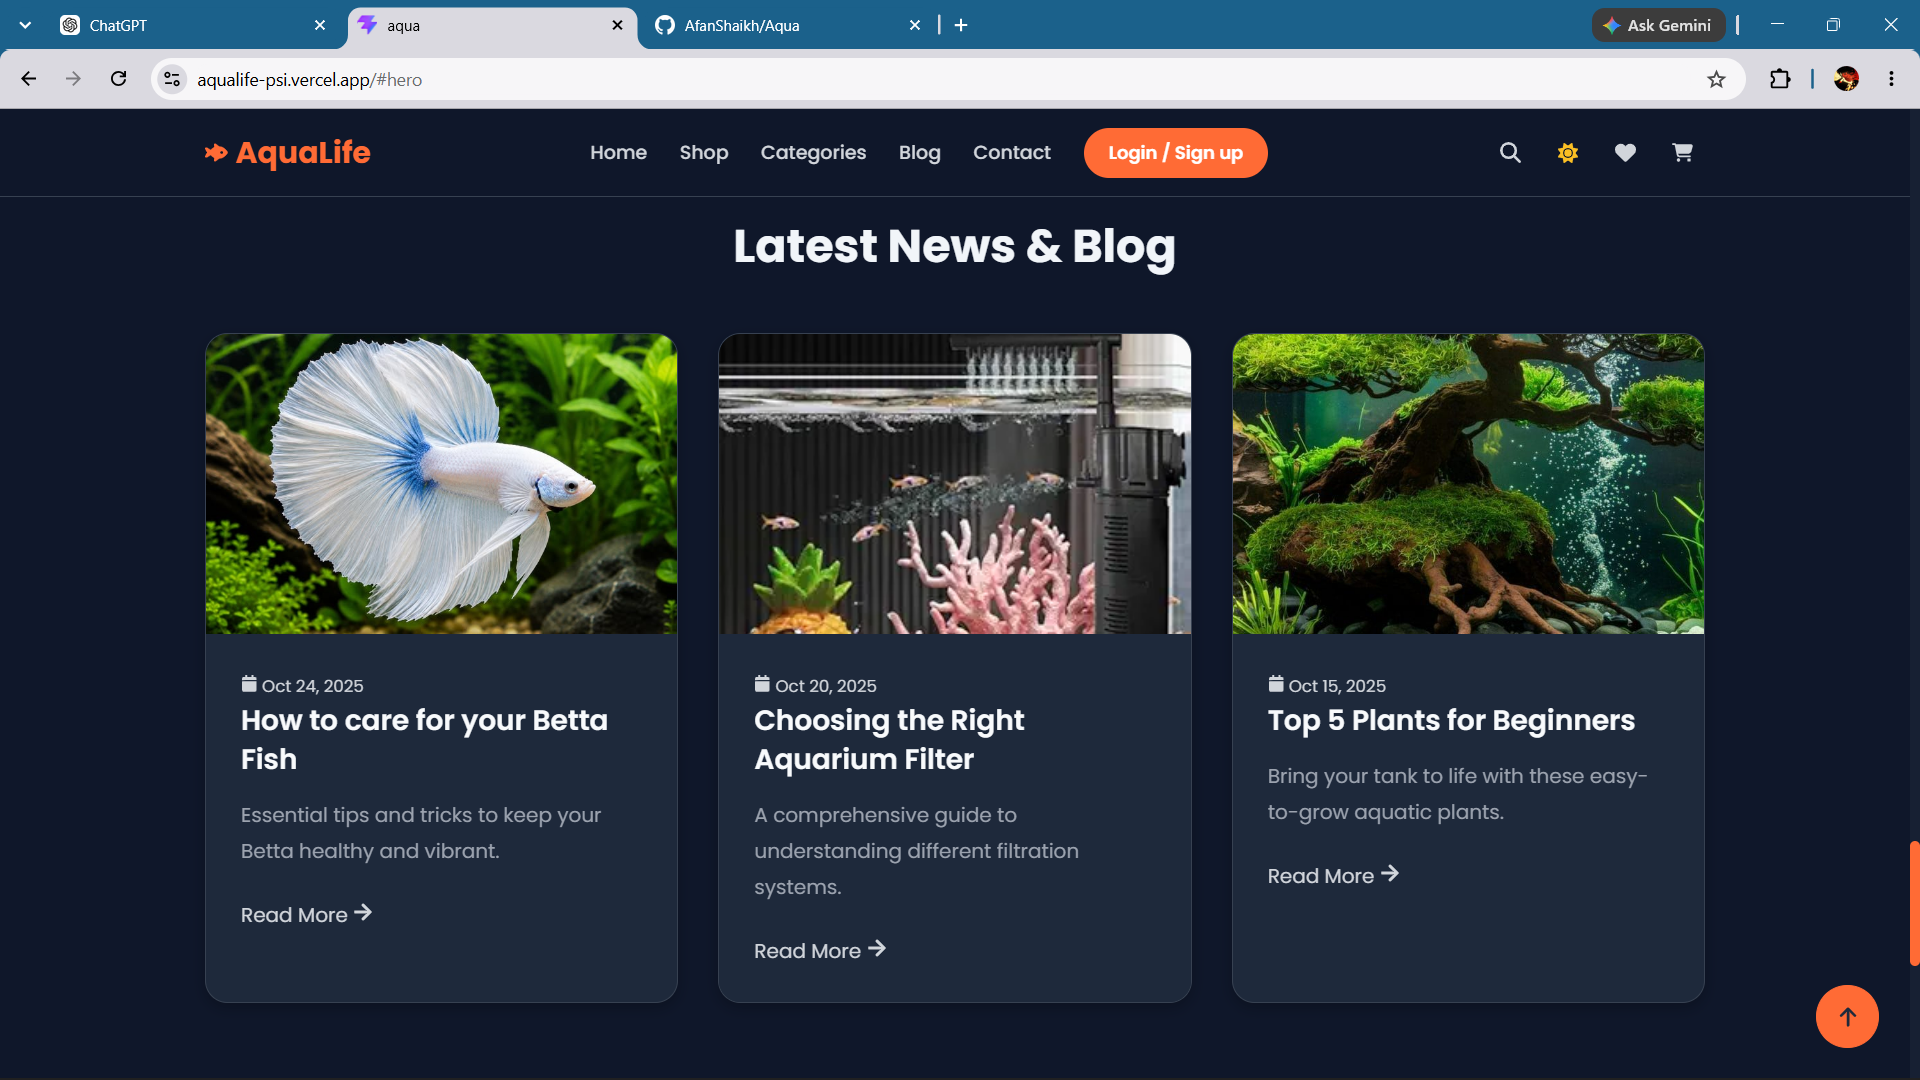
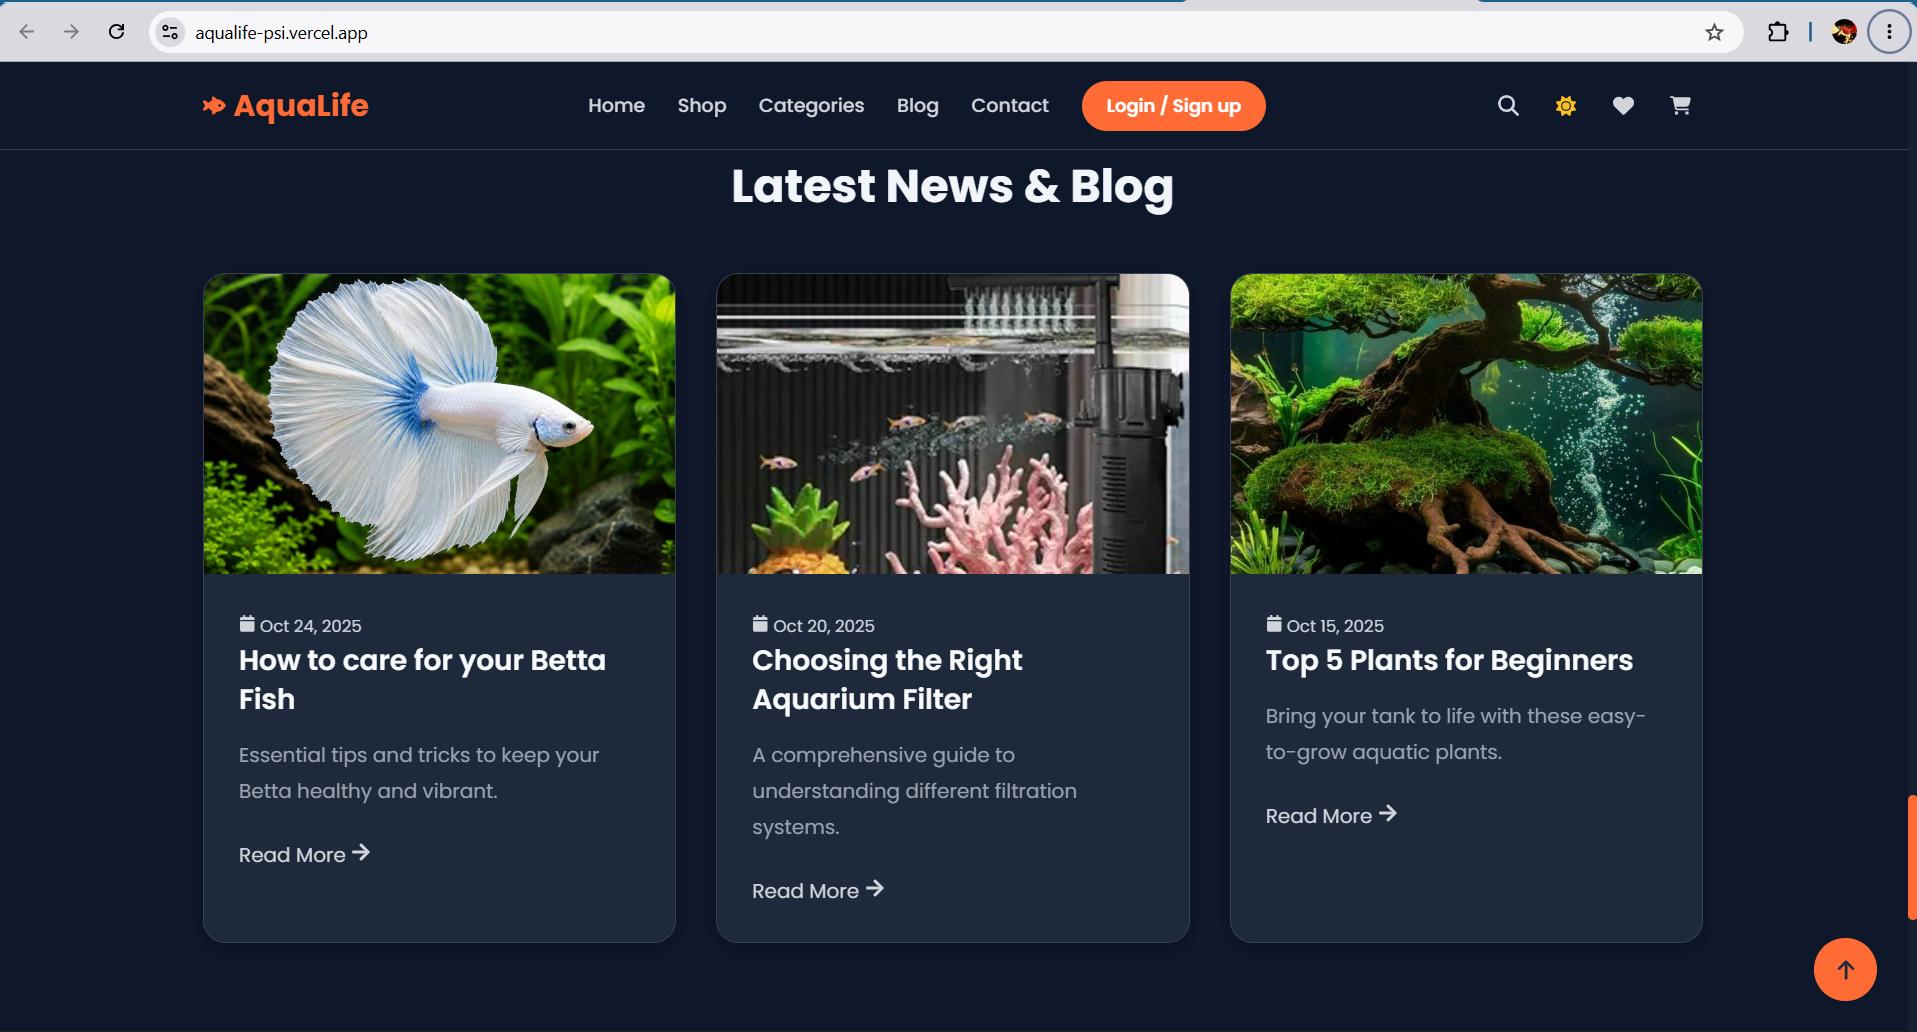
code

diff --git a/README.md b/README.md
@@ -213,19 +213,20 @@ The interface uses a dark aquarium-inspired visual system with:
 
 ### Categories
 
-![AquaLife Categories](Frontend/src/assets/screenshots/categories.png)
+![AquaLife Categories](Frontend/src/assets/screenshots/CT.png)
 
 ### Top Selling Products
 
-![Top Selling Products](Frontend/src/assets/screenshots/top-selling-products.png)
+![Top Selling Products](Frontend/src/assets/screenshots/product.png)
 
 ### Promotional Offer
 
-![Promotional Offer](Frontend/src/assets/screenshots/offer-section.png)
+![Promotional Offer](Frontend/src/assets/screenshots/offer.png)
 
 ### Project Gallery
 
-![Project Gallery](Frontend/src/assets/screenshots/project-gallery.png)
+![Project Gallery](Frontend/src/assets/screenshots/gallery.png),
+![Project Gallery](Frontend/src/assets/screenshots/gallery2.png)
 
 ### Blog
 
@@ -233,17 +234,19 @@ The interface uses a dark aquarium-inspired visual system with:
 
 ### Authentication
 
-![Create Account](Frontend/src/assets/screenshots/signup.png)
+![Create Account](Frontend/src/assets/screenshots/auth.png)
 
-![Sign In](Frontend/src/assets/screenshots/signin.png)
+![Sign In](Frontend/src/assets/screenshots/auth2.png)
 
 ### Wishlist
 
 ![Wishlist](Frontend/src/assets/screenshots/wishlist.png)
+![Wishlist](Frontend/src/assets/screenshots/wishlist2.png)
 
 ### Cart
 
-![Cart](Frontend/src/assets/screenshots/cart.png)
+![Cart](Frontend/src/assets/screenshots/checkout.png)
+![Checkout](Frontend/src/assets/screenshots/checkout2.png)
 
 ### Order History
 
@@ -251,7 +254,7 @@ The interface uses a dark aquarium-inspired visual system with:
 
 ### Order Details
 
-![Order Details](Frontend/src/assets/screenshots/order-details.png)
+![Order Details](Frontend/src/assets/screenshots/OD.png)
 
 ## Responsive Design
 
